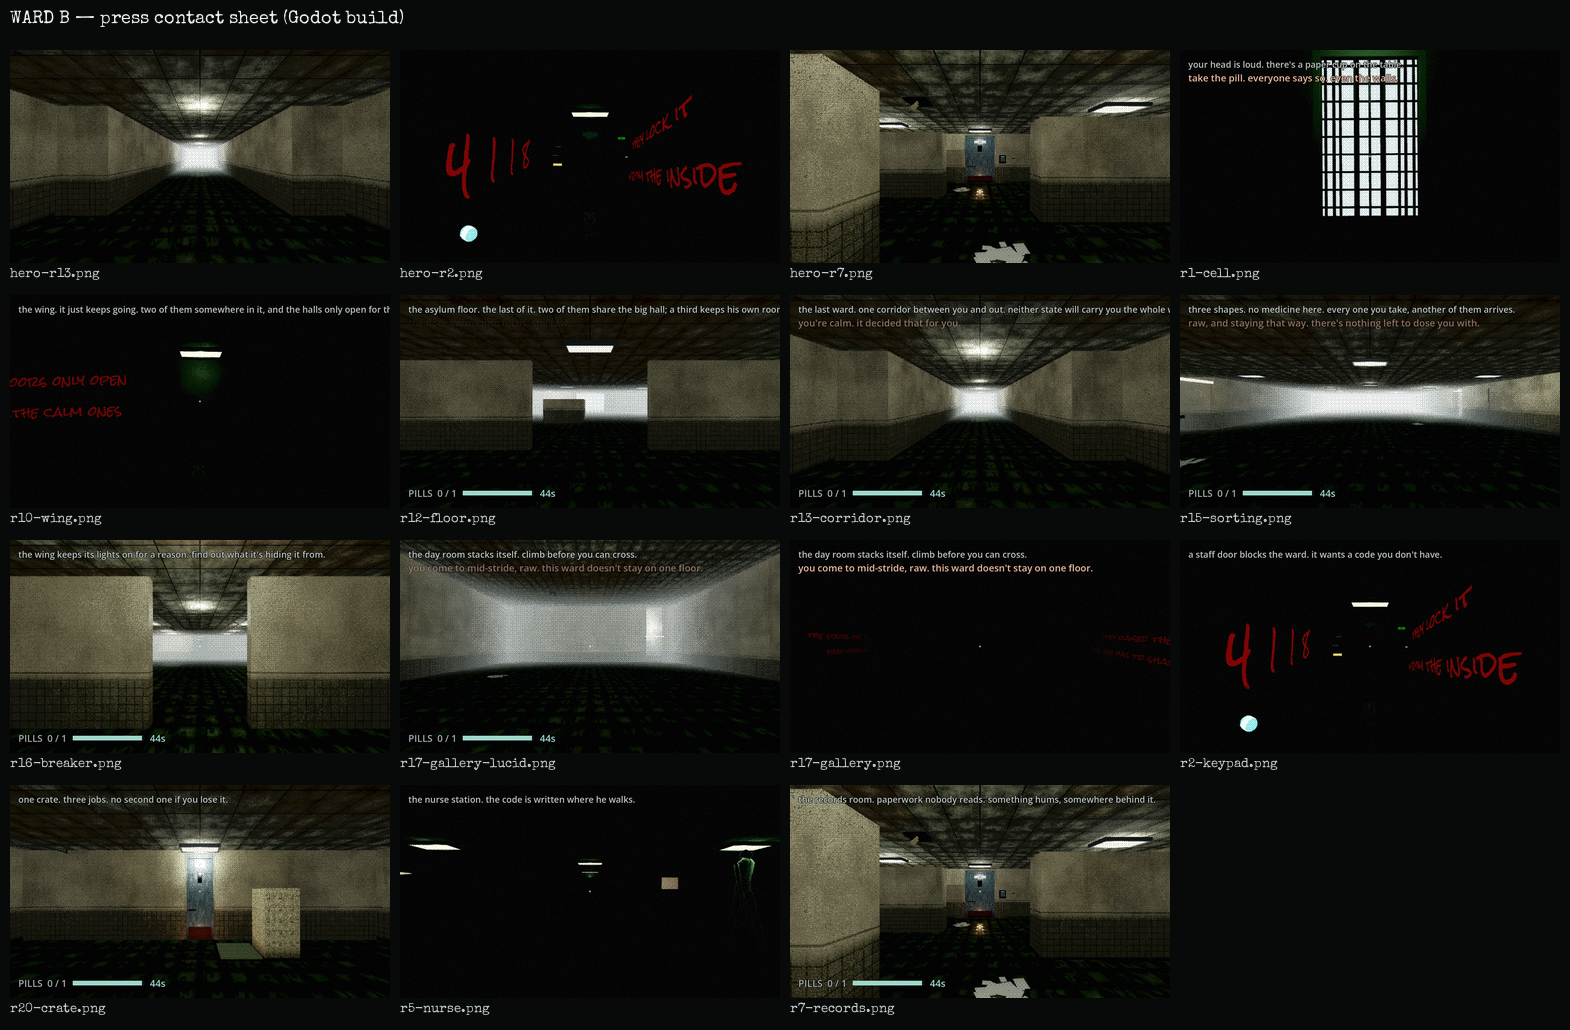
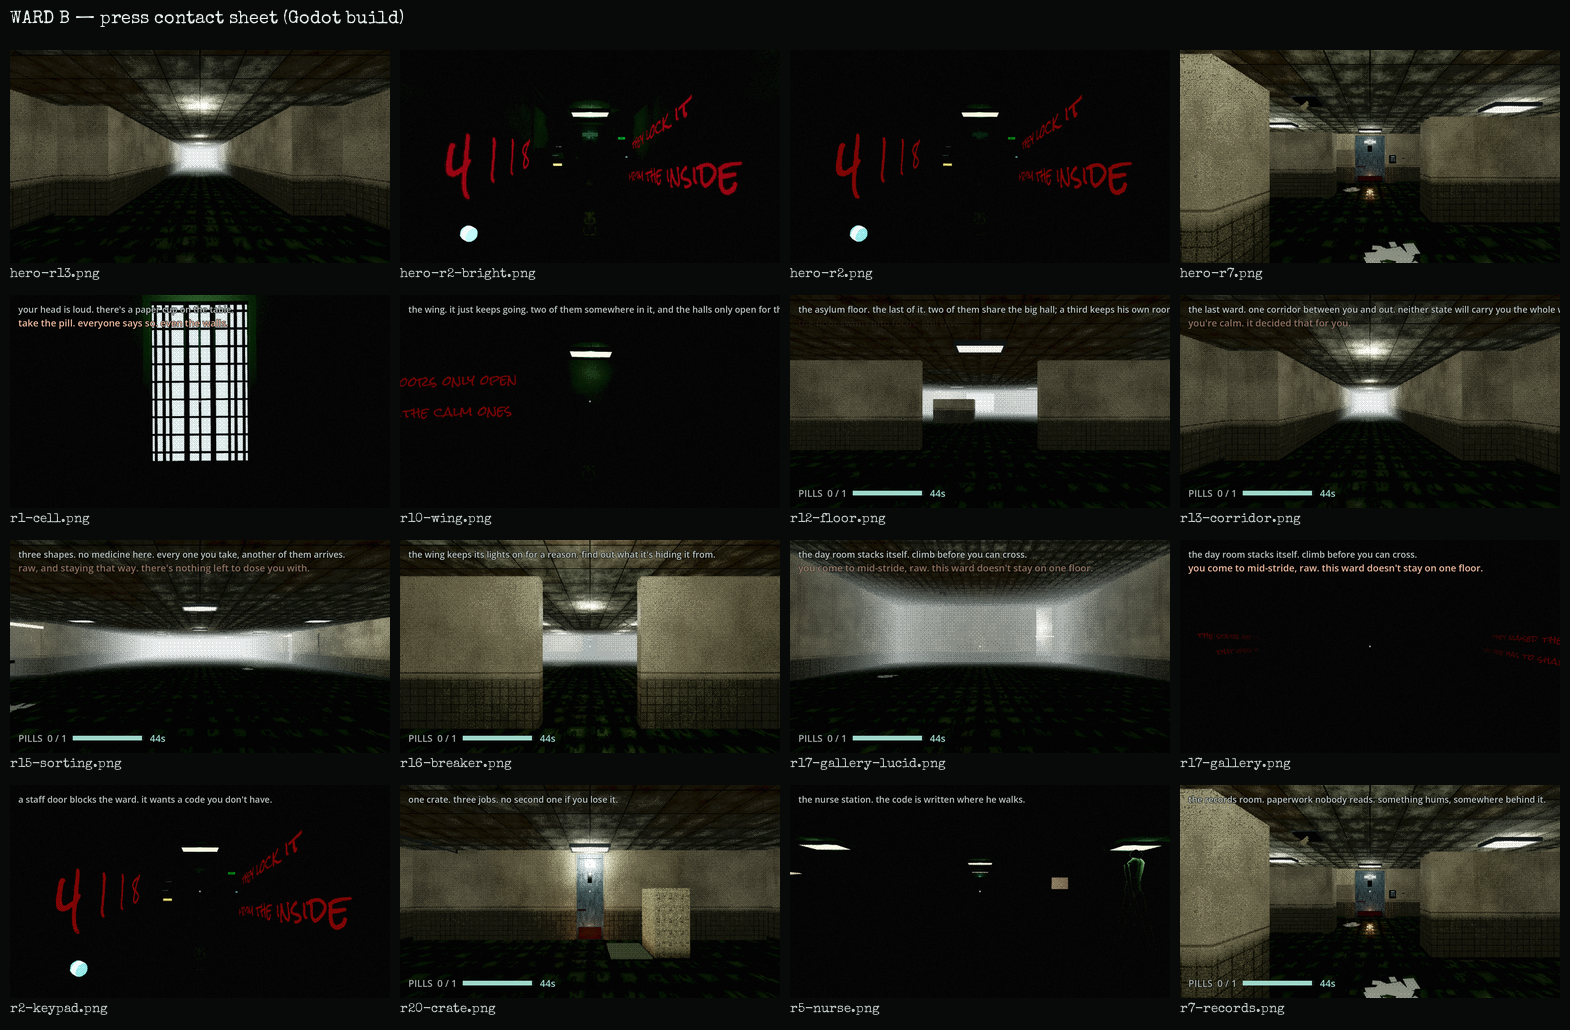
docs(press): use the brightness-2.0 plate for the cover
Author picked it from the ladder. The shipped cover is now
raw/hero-r2-bright.png at --lift 1.3: the plate recaptured with the game's
own brightness setting at its maximum, then given a gentle gamma lift for
the tile.

I had argued against this route and the comparison proved me wrong on the
part that matters. My objection was that in-game brightness barely helps —
true on the numbers, tonemap exposure only moves 0.525 -> 0.840 — but mean
luminance was the wrong thing to measure. A pure post-lift reaches the same
brightness while amplifying the ordered dither and the film grain along with
the signal, so past roughly --lift 2.0 the tile reads as compression noise.
Lifting in-engine first gives the renderer a properly exposed frame with the
grain at its natural relative level, so the remaining 1.3 of post does much
less work and the tile stays clean. Both routes measure about the same; only
one of them looks right.

It also survives the honesty test the rest of this directory is held to:
2.0 is the top of WardSettings' own brightness range, a setting a real
player can select, not a value invented for the shot.

Cover, plain cover, teal-B variant and contact sheet all rebuilt. The
post-lift-only ladder stays in press/out/lift-*.png for comparison.

diff --git a/press/README.md b/press/README.md
@@ -32,42 +32,45 @@ see "On generated art" below.
 
 ## Cover brightness
 
-The cover plate is room 2 unmedicated — the darkest the ward ever gets, mean
-luminance about 9/255. Correct for the game, poor for a 630x500 store
-thumbnail seen at a glance. `make_covers.py --lift GAMMA` applies a shadow
-lift to the frame before the type goes on; **the shipped cover is `--lift
-1.6`**.
+The cover plate is room 2 unmedicated — the darkest the ward ever gets — which
+is right for the game and poor for a 630x500 store tile seen at a glance.
 
-Gamma rather than a multiply, and rather than recapturing at a higher in-game
-brightness:
+**The shipped cover is `raw/hero-r2-bright.png` at `--lift 1.3`**: a plate
+recaptured with the game's own brightness setting at its maximum (2.0), then
+given a gentle gamma lift for the tile. Reproduce with:
 
-- a multiply clips the ceiling panel to white long before the walls come up
-  out of black;
-- gamma lifts the shadows and leaves highlights roughly in place — the same
-  reasoning `ui/shaders/posterize.gdshader`'s `shadow_gamma` is built on;
-- recapturing at the game's own maximum brightness (2.0) was tried and barely
-  helps: tonemap exposure only moves 0.525 -> 0.840, so the frame stays dark.
-  It also changes what the shot CLAIMS the game looks like. A cover treatment
-  is honest about being a treatment; a gameplay frame shot at an atypical
-  setting is not.
+```
+python3 press/make_covers.py --plate hero-r2-bright.png --lift 1.3
+```
 
-Measured on the `4118` scrawl against the bare wall beside it, the lift
-*improves* code legibility rather than washing it out — gamma raises the
-mid-dark red strokes faster than the near-black wall:
+WHY BOTH LEVERS, rather than post-lifting the default-brightness plate harder.
+A pure post-lift reaches the same mean luminance, but it amplifies the ordered
+dither and the film grain along with the signal, and past roughly `--lift 2.0`
+the tile reads as compression noise instead of a dark ward. Lifting the frame
+in-engine first means the renderer produces a properly exposed image with the
+grain at its natural relative level, so the remaining 1.3 of post is doing much
+less work and the tile stays clean. Chosen by looking at the ladder, not by
+arithmetic — both routes measure about the same and only one of them looks
+right.
 
-| lift | frame mean | code contrast |
-|---|---|---|
-| 1.0 (raw) | 11.3 | 75.2 |
-| 1.4 | 19.3 | 94.8 |
-| **1.6 (shipped)** | **23.9** | — |
-| 1.8 | 29.0 | 104.9 |
-| 2.2 | 39.1 | 110.0 |
-| 2.6 | 48.6 | 112.5 |
+It is also still a real frame at a setting a real player can select: 2.0 is the
+top of `WardSettings.BRIGHTNESS_MIN..MAX`, not a value invented for the shot.
 
-Above ~2.0 the ordered dither and film grain amplify into visible noise and
-the ward loses its murk, which is the contrast the whole game runs on. The
-usable range is roughly 1.4-1.8. `press/out/lift-*.png` holds the ladder for
-comparison; regenerate any rung with `python3 press/make_covers.py --lift 1.8`.
+The gamma lift is applied to the plate only; the bottom gradient that keeps the
+title legible is composited after it, so type contrast is unaffected.
+
+Gamma rather than a multiply throughout: a multiply clips the ceiling panel to
+white long before the walls come up out of black. Same reasoning
+`ui/shaders/posterize.gdshader`'s `shadow_gamma` is built on — this ward's
+signal lives at the bottom of the range.
+
+Measured on the `4118` scrawl against the bare wall beside it, lifting
+*improves* code legibility rather than washing it out, because gamma raises the
+mid-dark red strokes faster than the near-black wall (contrast 75.2 raw, 104.9
+at lift 1.8). So the ceiling on brightness is aesthetic, not legibility.
+
+`press/out/lift-*.png` keeps the post-lift-only ladder (1.4 / 1.8 / 2.2 / 2.6)
+for comparison.
 
 ## Recommended screenshot set (in this order)
 
